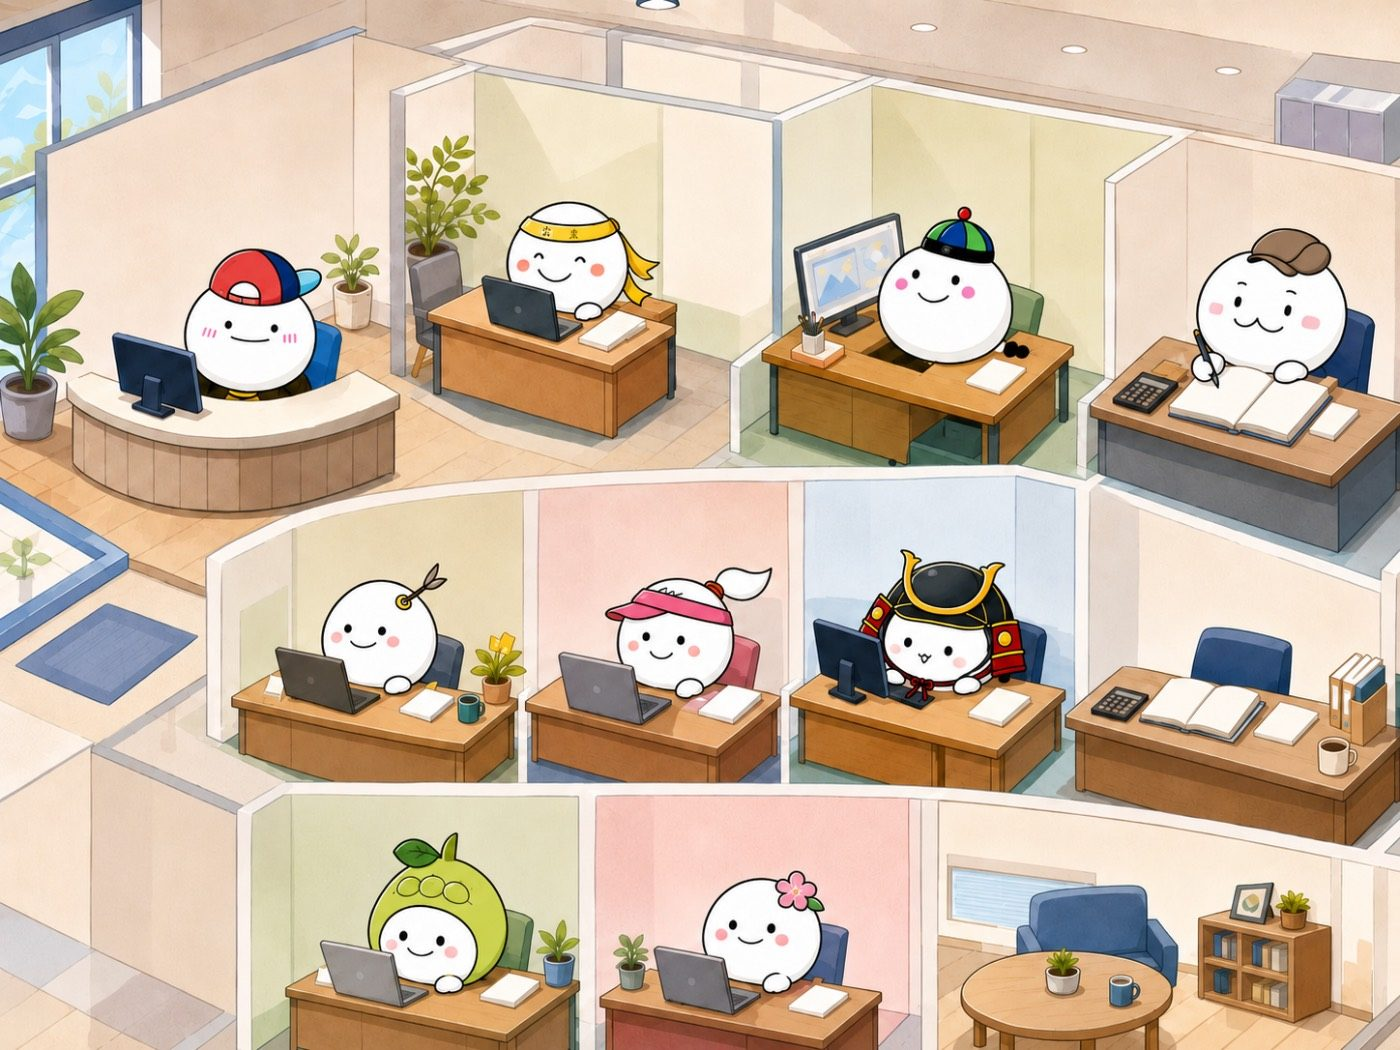
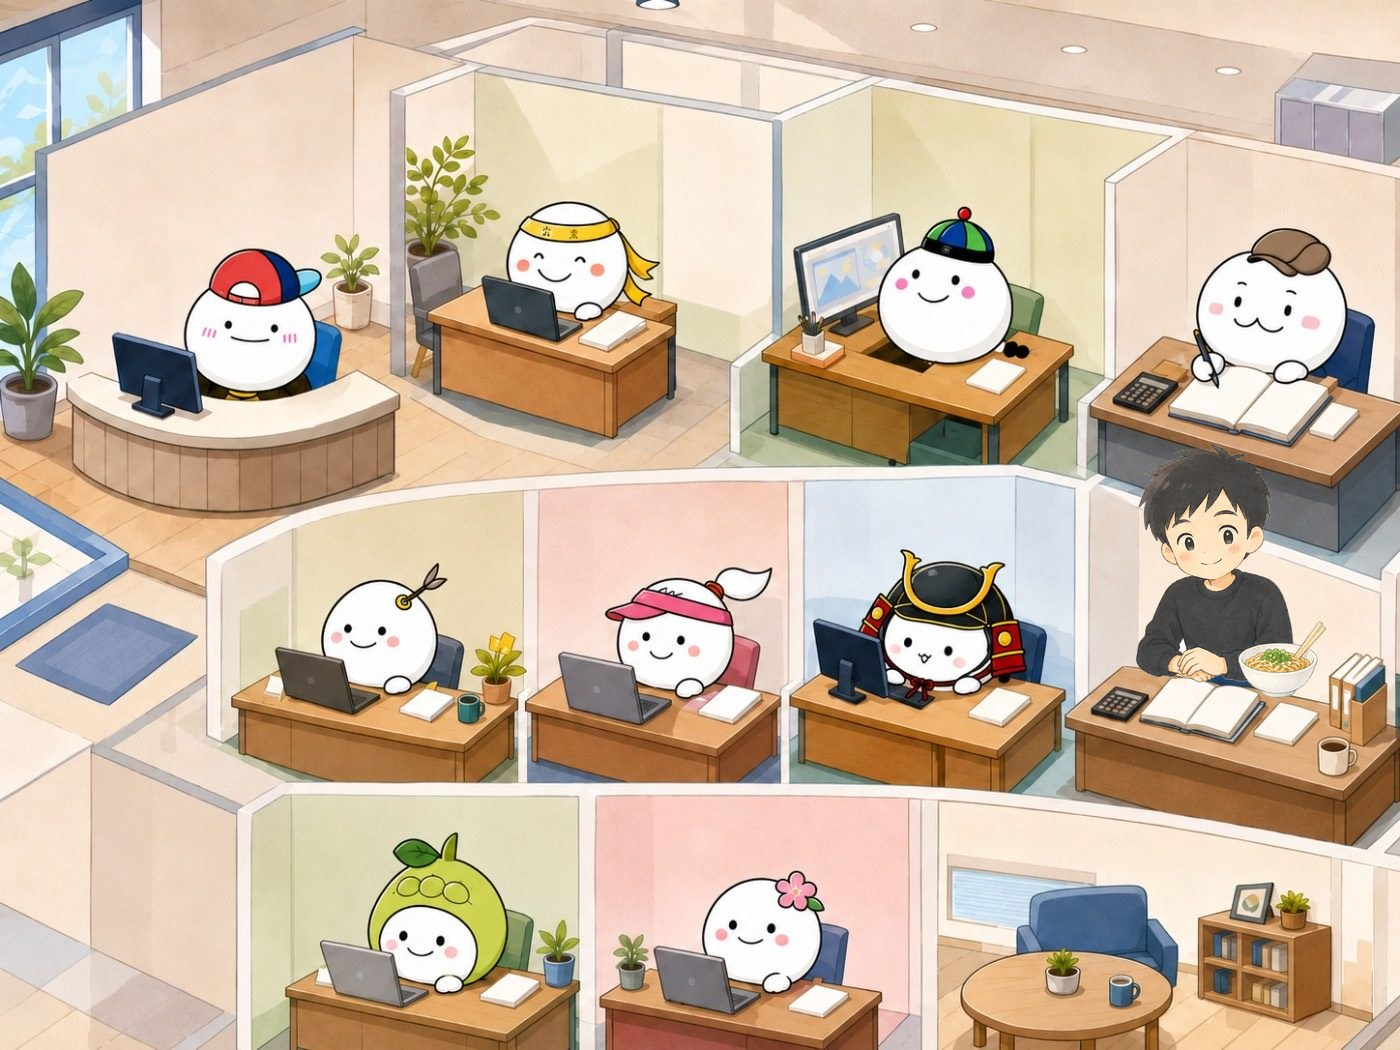
AIオフィス v44: masa本人（代表）をバウ本部の空席に合成
Claude-Session: https://claude.ai/code/session_01T6j1opLjn85ZhCAmH6MAKP

Changed region(s): [[0.7986, 0.4267, 0.9521, 0.6705]]

diff --git a/office/index.html b/office/index.html
@@ -206,7 +206,7 @@
 
 <main>
   <div class="office" id="office">
-    <img src="office_bg.jpg" alt="AIオフィス" id="bg">
+    <img src="office_bg.jpg?v=44" alt="AIオフィス" id="bg">
   </div>
   <div class="grid" id="grid"></div>
 </main>
@@ -249,7 +249,7 @@ var STAFF = [
   {id:"1532724627934154842", nm:"ポム",   role:"AI事業",         x:27.5, y:54.5},
   {id:"1532724546732425306", nm:"セレン", role:"リリース担当",   x:48.2, y:53.4},
   {id:"1532171159645458535", nm:"かねつぐ", role:"お客様窓口", x:67.9, y:53.4},
-  {id:"1517471809392476282", nm:"バウ本部", role:"マーケ・全社", x:87.9, y:61.0},
+  {id:"1517471809392476282", nm:"masa", role:"代表・バウ本部", x:87.9, y:59.0},
   {id:"1542160237723648021", nm:"ずんだ", role:"柿川亭アプリ",   x:32.9, y:84.9},
   {id:"1542160436487528509", nm:"さくら", role:"山形出店",       x:53.2, y:85.3}
 ];
@@ -810,7 +810,7 @@ document.getElementById("newpill").onclick = function(){ var l = document.getEle
 if (window.matchMedia && window.matchMedia("(pointer: fine)").matches && window.innerWidth >= 900) {
   document.getElementById("box").placeholder = "話しかける（マイク・⌘V・ドラッグでもOK）";
 }
-var APP_VER = 43;
+var APP_VER = 44;
 document.getElementById("ver").textContent = "v" + APP_VER;
 document.getElementById("ver").style.cursor = "pointer";
 document.getElementById("ver").onclick = function(){
